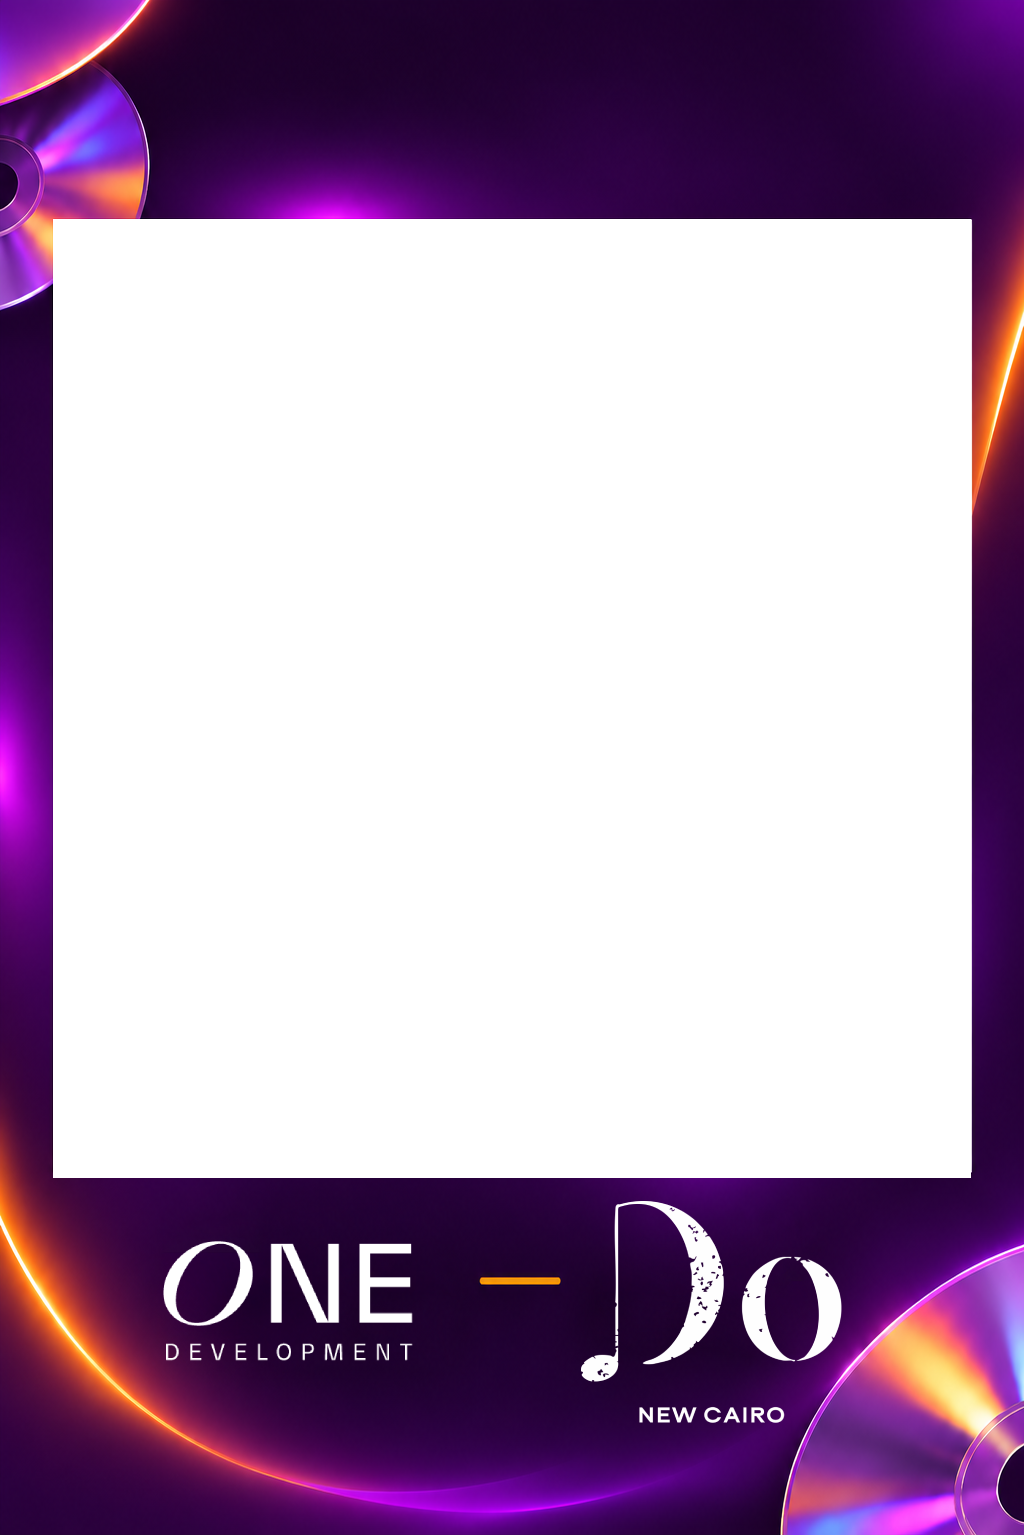
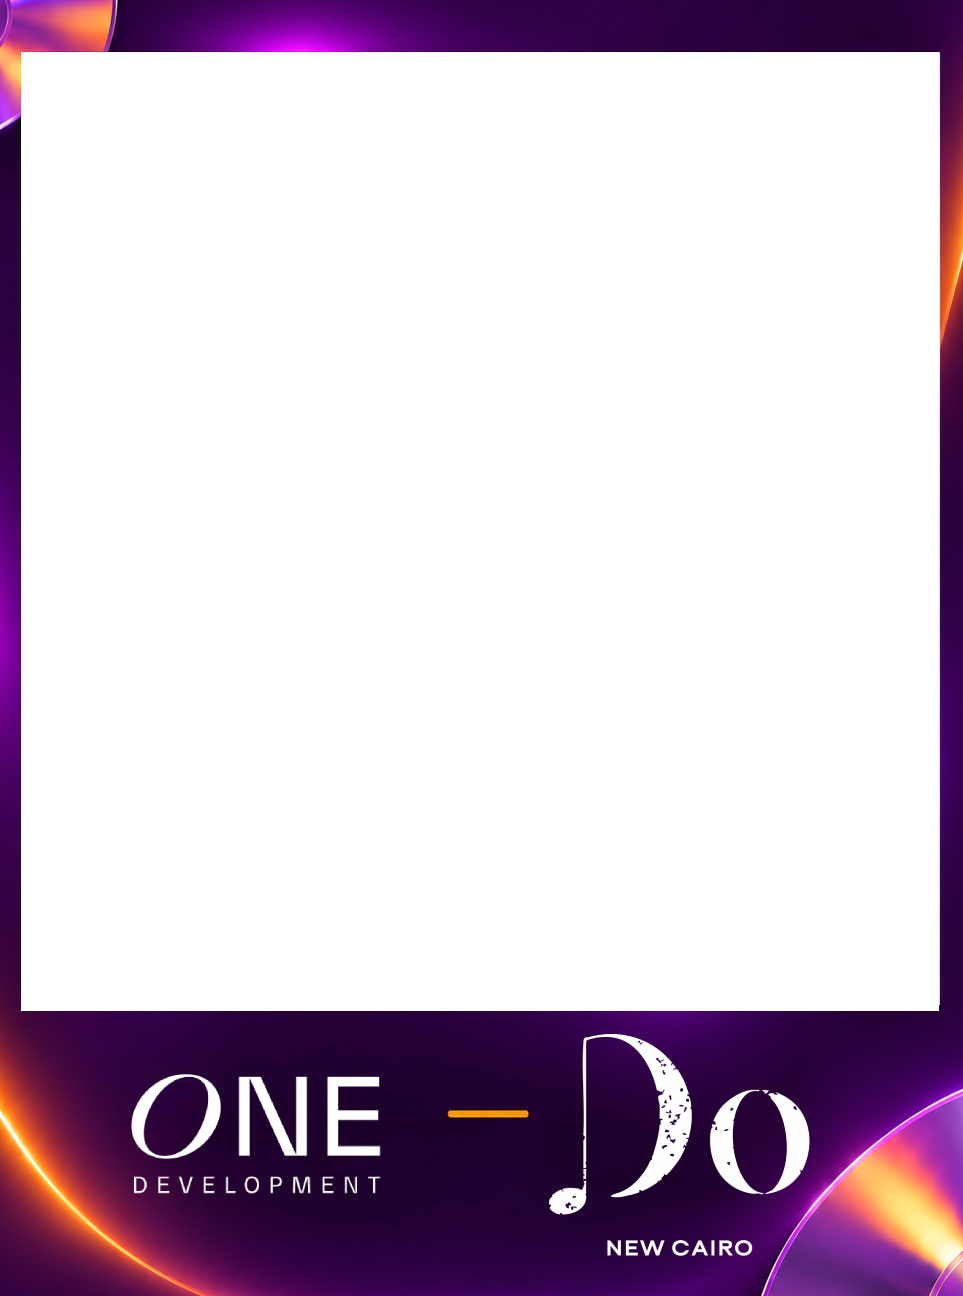
feat(export): dynamically detect frame dimensions and cutout window for QR downloads

diff --git a/src/server/delivery/export.ts b/src/server/delivery/export.ts
@@ -14,51 +14,100 @@ export type Artifact = {
   sha256: string;
 };
 
-let cachedFrame: Buffer | null = null;
+type FrameInfo = {
+  buffer: Buffer;
+  hash: string;
+  width: number;
+  height: number;
+  cutout: { left: number; top: number; width: number; height: number };
+};
 
-async function getFrameBuffer(): Promise<Buffer | null> {
-  if (cachedFrame) return cachedFrame;
+let cachedFrameInfo: FrameInfo | null = null;
+
+async function loadFrameInfo(): Promise<FrameInfo | null> {
   const candidates = [
     join(process.cwd(), "public", "artwork", "brand", "frame-background.png"),
     join(process.cwd(), "src", "server", "delivery", "frame-background.png"),
     "G:\\Downloads\\Background.png",
   ];
+  let buffer: Buffer | null = null;
   for (const candidate of candidates) {
     try {
       const data = await fs.readFile(candidate);
       if (data && data.length > 0) {
-        cachedFrame = data;
-        return data;
+        buffer = data;
+        break;
       }
     } catch {}
   }
-  return null;
+  if (!buffer) return null;
+
+  const hash = createHash("sha256").update(buffer).digest("hex");
+  if (cachedFrameInfo && cachedFrameInfo.hash === hash) {
+    return cachedFrameInfo;
+  }
+
+  const frameImage = sharp(buffer);
+  const meta = await frameImage.metadata();
+  const width = meta.width || 1024;
+  const height = meta.height || 1535;
+
+  let cutout = { left: 50, top: 216, width: 924, height: 965 };
+  try {
+    const raw = await frameImage.raw().toBuffer({ resolveWithObject: true });
+    let minX = width, maxX = 0, minY = height, maxY = 0;
+    let hasCutout = false;
+    for (let y = 0; y < height; y++) {
+      for (let x = 0; x < width; x++) {
+        const alpha = raw.data[(y * width + x) * raw.info.channels + 3];
+        if (alpha < 128) {
+          hasCutout = true;
+          if (x < minX) minX = x;
+          if (x > maxX) maxX = x;
+          if (y < minY) minY = y;
+          if (y > maxY) maxY = y;
+        }
+      }
+    }
+    if (hasCutout) {
+      const bleed = 4;
+      const left = Math.max(0, minX - bleed);
+      const top = Math.max(0, minY - bleed);
+      const w = (maxX - minX + 1) + bleed * 2;
+      const h = (maxY - minY + 1) + bleed * 2;
+      cutout = { left, top, width: w, height: h };
+    }
+  } catch (err) {
+    console.warn("Cutout detection failed, using fallback:", err);
+  }
+
+  cachedFrameInfo = { buffer, hash, width, height, cutout };
+  return cachedFrameInfo;
 }
 
 export async function composeFramedPortrait(source: Buffer, format: ExportFormat): Promise<Buffer> {
-  const frame = await getFrameBuffer();
-  if (!frame) {
+  const frameInfo = await loadFrameInfo();
+  if (!frameInfo) {
     return format === "png"
       ? source
       : await sharp(source).webp({ lossless: true }).toBuffer();
   }
 
-  // Frame is 1024x1535 with transparent cutout:
-  // x: 53..970 (width 918), y: 219..1177 (height 959).
-  // Scale 1024x1024 source to 924x965 to cover the window with 4px bleed behind frame borders:
+  const { buffer: frame, width, height, cutout } = frameInfo;
+
   const scaledPortrait = await sharp(source)
-    .resize(924, 965, { fit: "cover", position: "center" })
+    .resize(cutout.width, cutout.height, { fit: "cover", position: "center" })
     .toBuffer();
 
   const pipeline = sharp({
     create: {
-      width: 1024,
-      height: 1535,
+      width,
+      height,
       channels: 4,
       background: { r: 11, g: 9, b: 14, alpha: 1 },
     },
   }).composite([
-    { input: scaledPortrait, left: 50, top: 216 },
+    { input: scaledPortrait, left: cutout.left, top: cutout.top },
     { input: frame, left: 0, top: 0 },
   ]);
 

diff --git a/tests/delivery.test.ts b/tests/delivery.test.ts
@@ -60,8 +60,8 @@ test("durable reservation transitions once through queue, slow running work, and
   assert.match(response.headers.get("content-disposition")!, /^attachment;/);
   assert.equal(response.headers.get("cache-control"), "private, no-store");
   assert.deepEqual(await response.arrayBuffer(), photo.bytes.buffer);
-  assert.equal(photo.artifact.width, 1024);
-  assert.equal(photo.artifact.height, 1535);
+  assert.ok(photo.artifact.width >= 900);
+  assert.ok(photo.artifact.height >= 1200);
   assert.equal((await restart.claim(capture, owner, now))!.created, false);
 });
 
@@ -108,7 +108,7 @@ test("bounded export retries recover from persisted source without generation or
   const source = await readFile(join(job.dir, "source.png"));
   const pixels = await sharp(source).raw().toBuffer({ resolveWithObject: true });
   const result = await sharp(bytes).raw().toBuffer({ resolveWithObject: true });
-  assert.deepEqual([result.info.width, result.info.height], [1024, 1535]);
+  assert.ok(result.info.width >= 900 && result.info.height >= 1200);
   assert.ok(result.info.channels >= 3);
   await api.recover(job);
   assert.equal(exports, 3);
